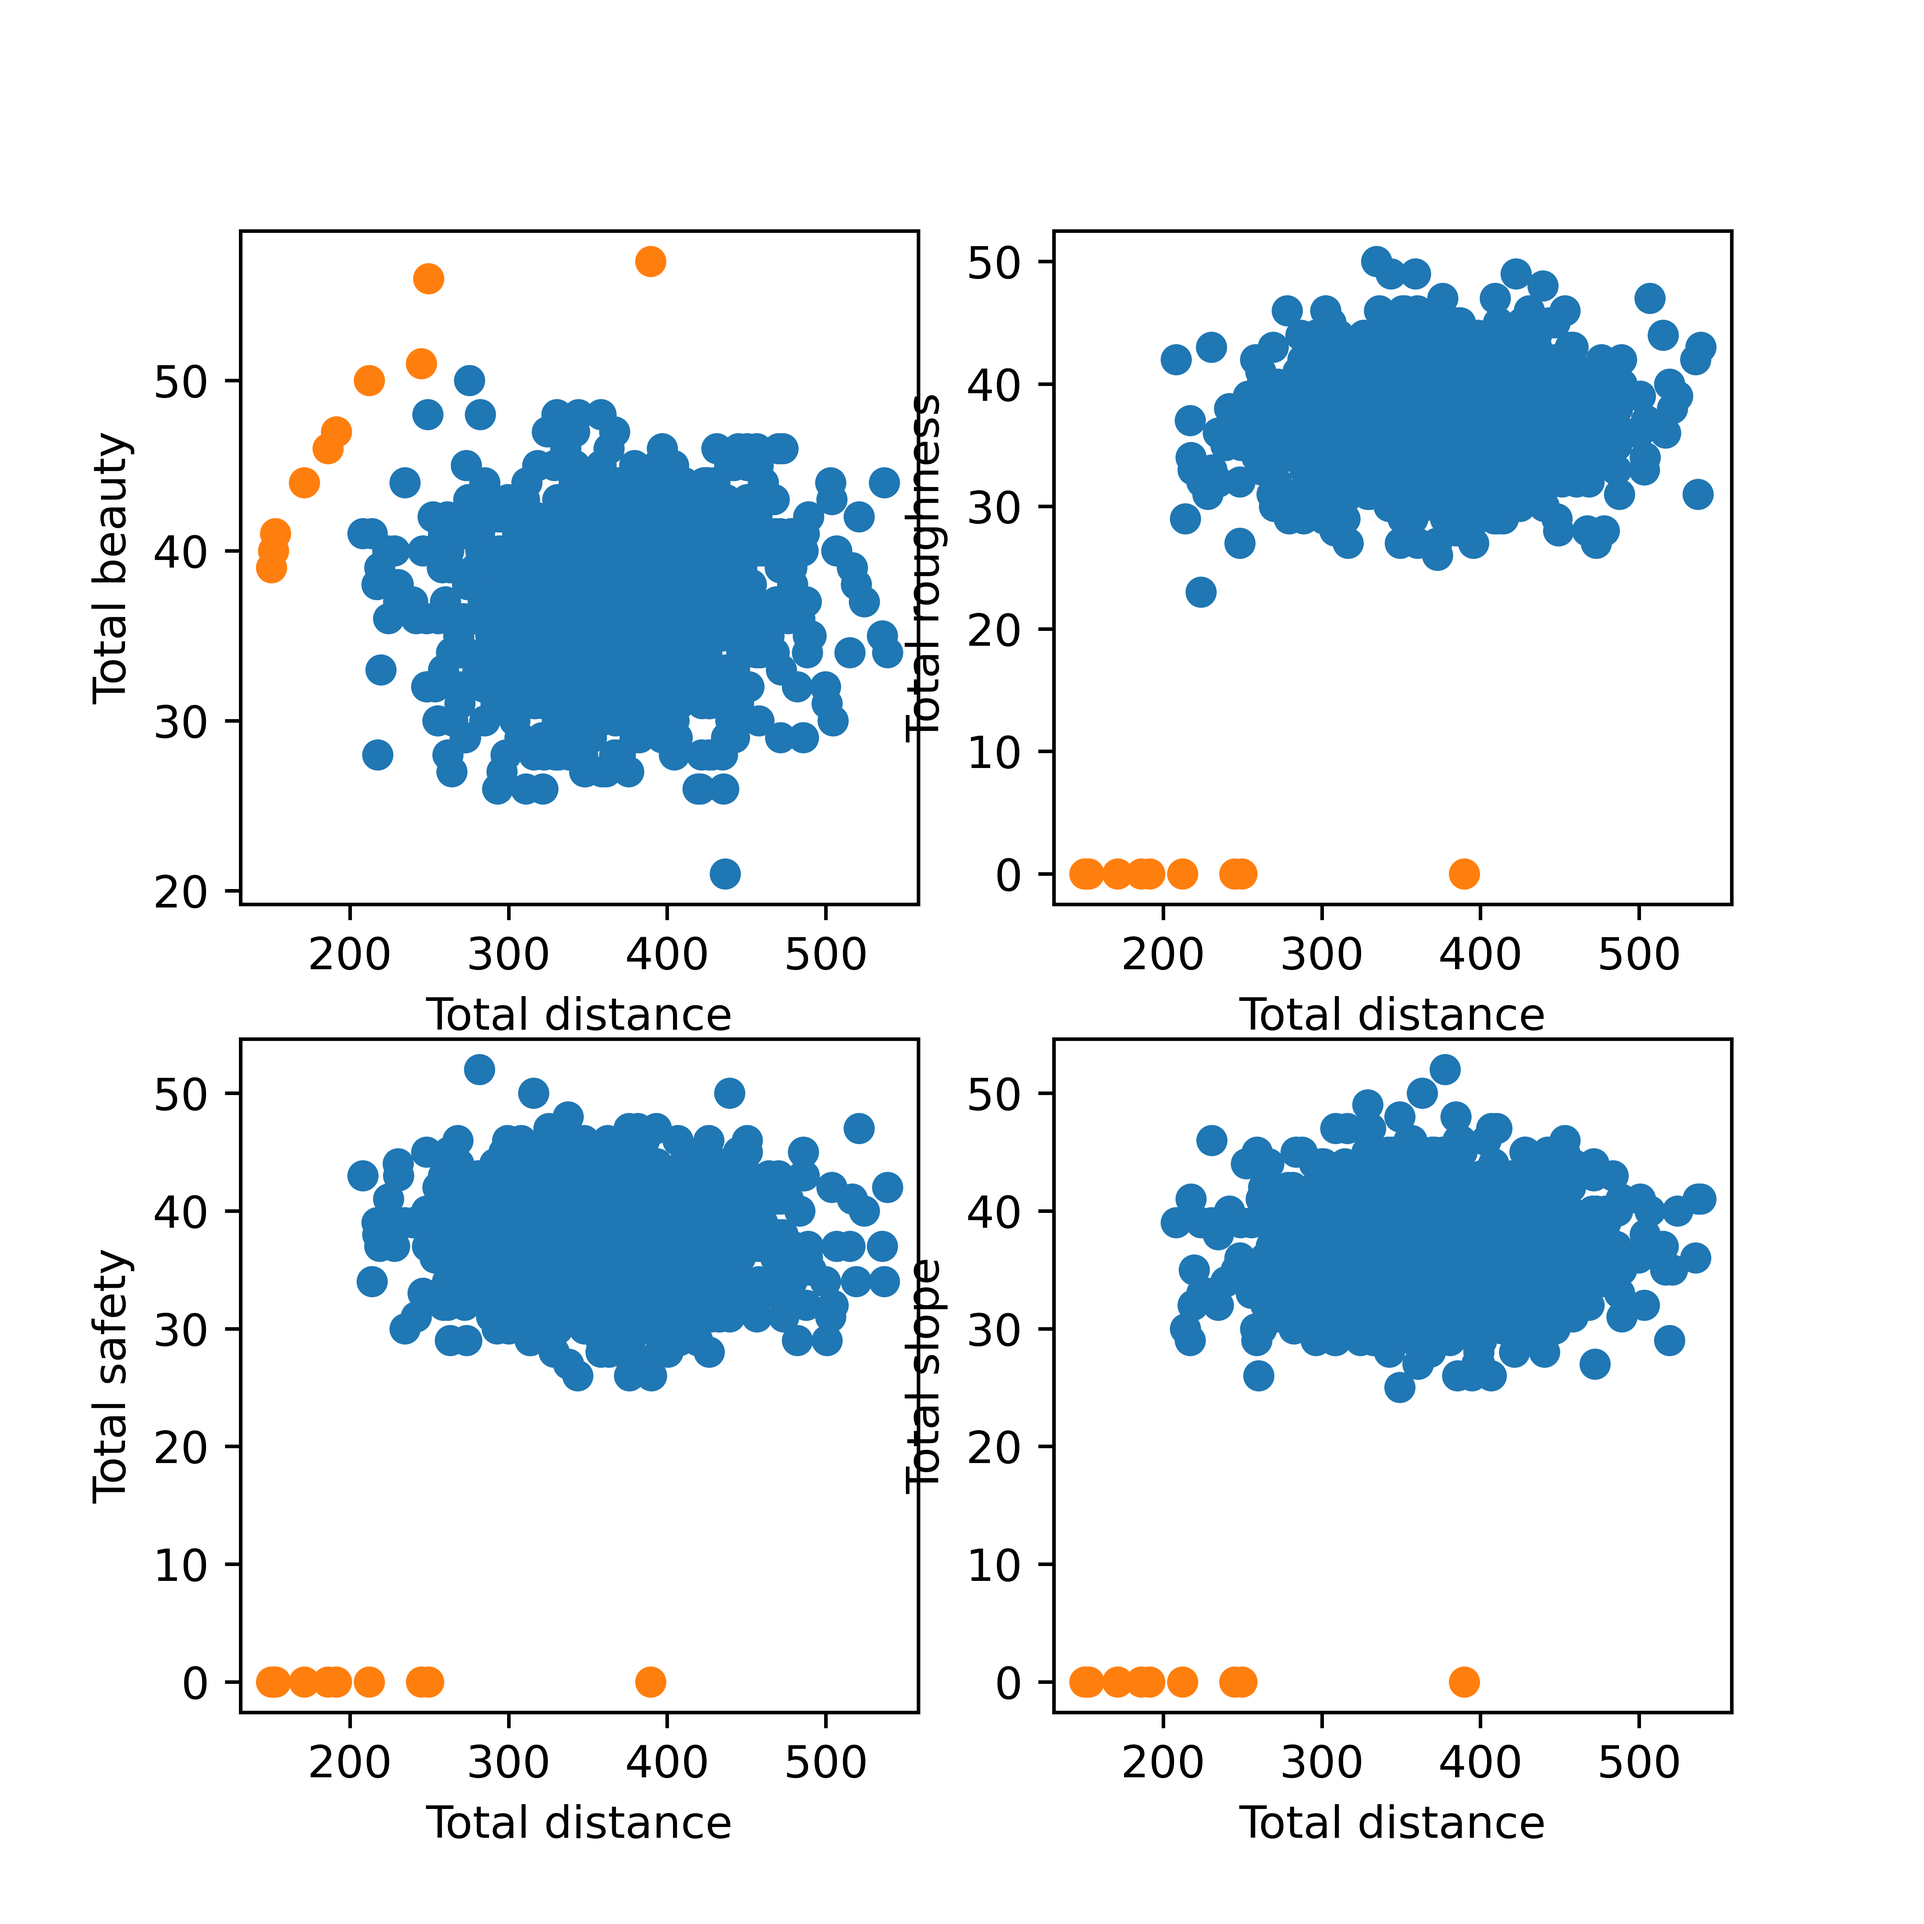
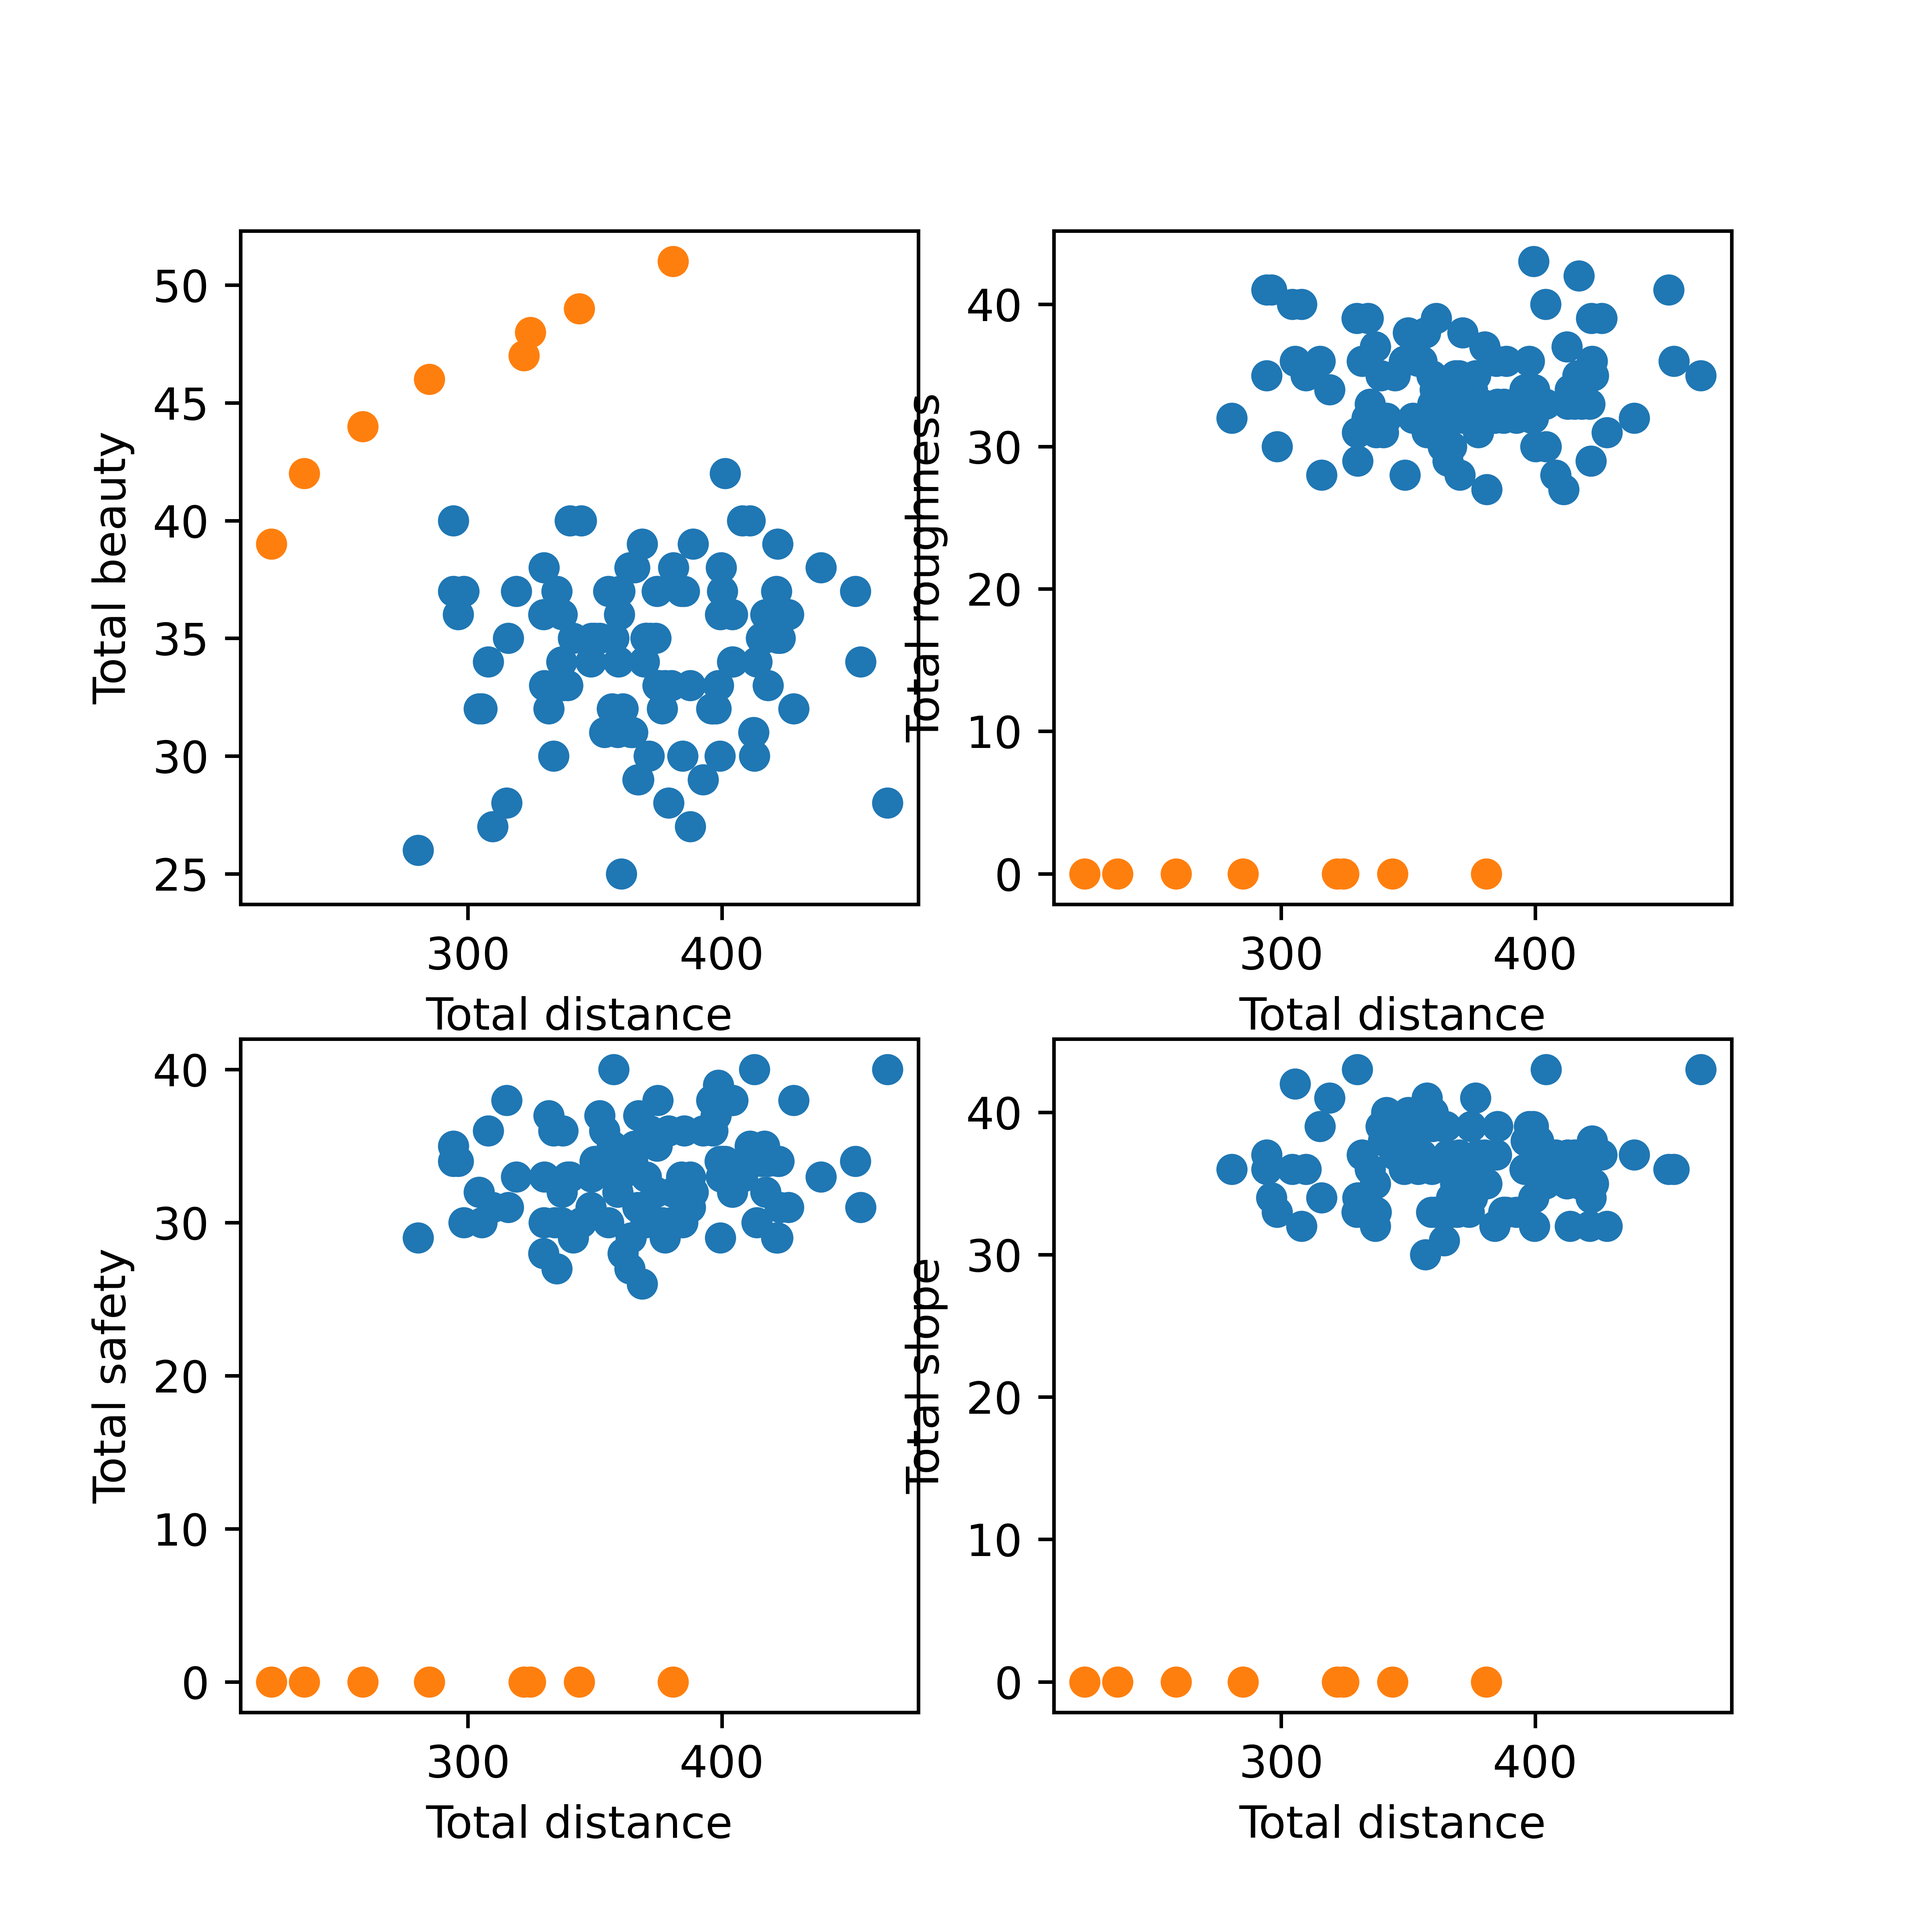
WIP

diff --git a/bicycle_routing.py b/bicycle_routing.py
@@ -3,6 +3,7 @@ from desdeo_emo.EAs import NSGAIII
 import numpy as np
 import warnings
 import matplotlib.pyplot as plt
+import pandas as pd
 
 warnings.filterwarnings("ignore")
 from problem import BicycleProblem
@@ -115,7 +116,7 @@ if not check_constraints(bicycle_problem, var):
 
 # Generate plots
 # Scatterplot F1, F2
-NUM_RANDOM_SAMPLES = 1000
+NUM_RANDOM_SAMPLES = 100
 bicycle_problem = BicycleProblem(variable_count, NUM_RANDOM_SAMPLES, distance_matrix, beauty_matrix, roughness_matrix,safety_matrix, slope_matrix)
 random_samples = np.array([np.random.permutation(range(1, variable_count+1)) for _ in range(NUM_RANDOM_SAMPLES)])
 random_distances = bicycle_problem.total_distance(random_samples)
@@ -139,18 +140,21 @@ plt.savefig("plots/pfront_plot.png", dpi=800)
 def normalize(x):
     return (x - np.min(x)) / (np.max(x) - np.min(x))
 
-import pandas as pd
 data_pareto = pd.DataFrame(obj, columns=["distance"]+list_obj)
-data_pareto["label"] = "Pareto"
-data_random = pd.DataFrame(np.column_stack([random_distances[:100], random_beauty[:100], random_roughness[:100],
-                                            random_safety[:100], random_slope[:100]]), columns=["distance"] + list_obj)
+data_pareto_follow_constraints = data_pareto[data_pareto.apply(lambda x: check_constraints(bicycle_problem, [x[1:]]), axis=1)]
+data_pareto_follow_constraints["label"] = "Pareto follow constraints"
+data_pareto_not_follow_constraints = data_pareto[data_pareto.apply(lambda x: not check_constraints(bicycle_problem, [x[1:]]), axis=1)]
+data_pareto_not_follow_constraints["label"] = "Pareto not follow constraints"
+data_random = pd.DataFrame(np.column_stack([random_distances, random_beauty, random_roughness,
+                                                               random_safety, random_slope]),
+                                              columns=["distance"] + list_obj)
 data_random["label"] = "Random"
-data = pd.concat([data_random, data_pareto])
+data = pd.concat([data_random, data_pareto_not_follow_constraints, data_pareto_follow_constraints])
 data.iloc[:, :-1] = data.iloc[:, :-1].apply(normalize)
-dft = data.transpose()
-
+columns_to_check = [i for i, obj_weight in enumerate(obj_weights) if obj_weight != 0]
+interested_data = data.iloc[:, columns_to_check + [-1]]
 
 plt.figure()
-pd.plotting.parallel_coordinates(data, 'label', color=["tomato", "lime"])
+pd.plotting.parallel_coordinates(data, 'label', color=["tomato", "green", "lime"])
 plt.savefig("plots/parallel.png", dpi=800)
 plt.show()
